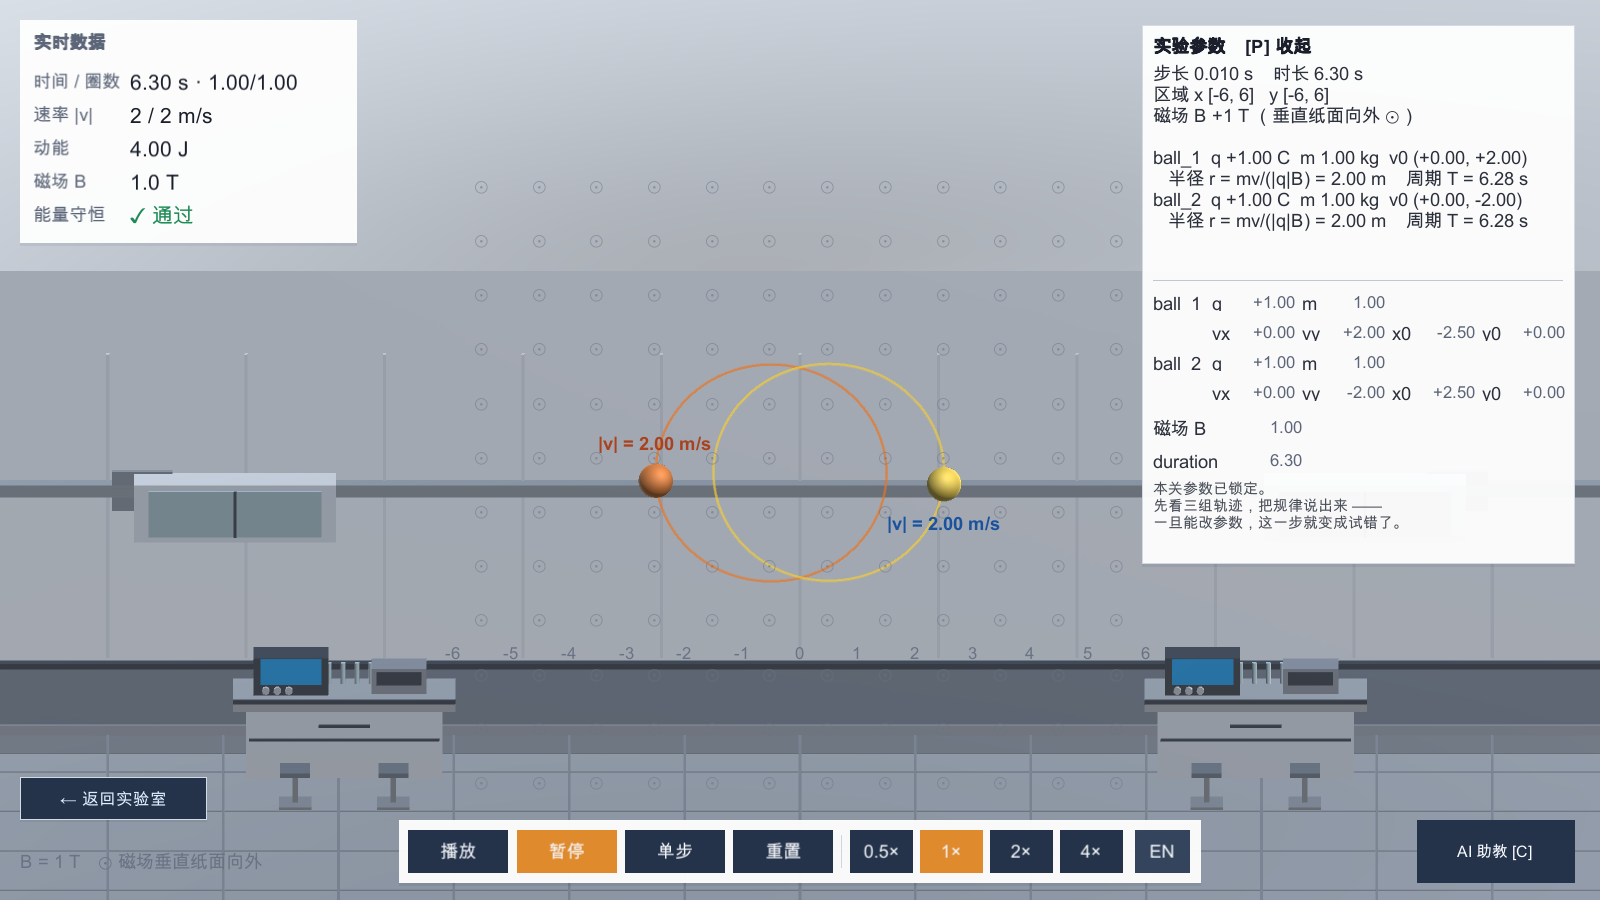
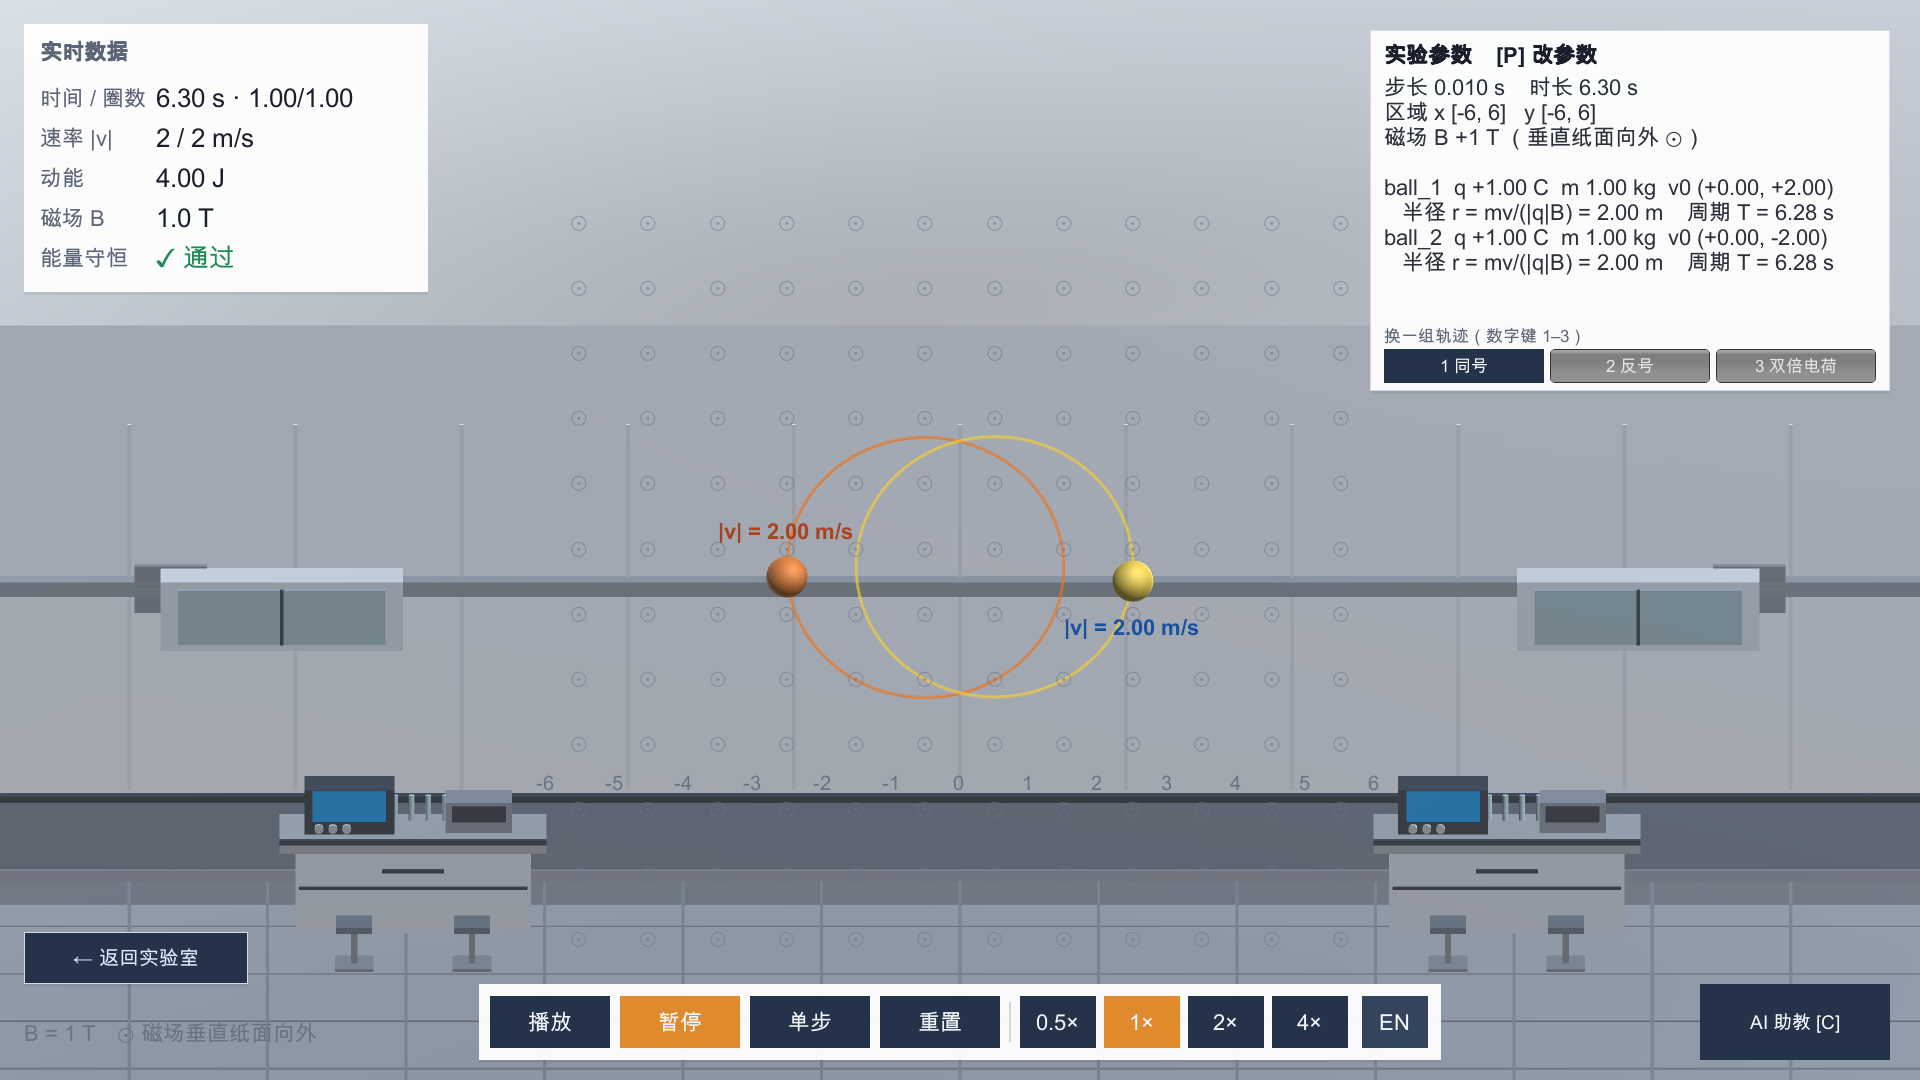
feat: 锁定关常驻「换一组轨迹」切换条 + 三站教学设计说明
- ParameterPanel：站一/站二锁定时常驻一条数据集切换条（不按 P 也在），
  当前那组深底白字，点一下就换；同步调整两关底部的锁定说明文案
- UILang：新增数据集短标签（同号 / 反号 / 双倍电荷 / 弱场 / 强场 …）
- ChargeLabHub：新增 -preset N，进站后直接打开第 N 组预设（截图验收用）
- README：新增「三个课时分别在验证什么」，逐案例列出实际 r/T/圈数与结论；
  操作表和命令行验收同步更新
- docs：重出 st1_locked / st2_speedonly / st2_speedonly_en，新增切换后的两张

diff --git a/Assets/Scripts/PhysicsPlayback/ParameterPanel.cs b/Assets/Scripts/PhysicsPlayback/ParameterPanel.cs
@@ -54,6 +54,9 @@ public sealed class ParameterPanel : MonoBehaviour
     GUIStyle _messageStyle;
     GUIStyle _lockedStyle;     // 冻结字段的灰字
     GUIStyle _lockTipStyle;    // 面板底部那句「本关能改什么」
+    GUIStyle _barButtonStyle;  // 数据集切换按钮
+    GUIStyle _barActiveStyle;  // 当前正在看的那一组
+    GUIStyle _barHeaderStyle;  // 切换条上方的小标题
     SimulationOutput _cached;
     string _cachedBody;
     float _cachedWidth = -1f;
@@ -184,8 +187,10 @@ public sealed class ParameterPanel : MonoBehaviour
         foreach (char c in _cachedBody) if (c == '\n') lineCount++;
         float readOnlyHeight = lineCount * lineHeight + 24f;
 
+        // 锁定关的切换条常驻，不跟 _editing 走 —— 不按 P 也要看得见「还能换三组」。
+        float barHeight = HasDatasetBar() ? DatasetBarHeight() : 0f;
         float editorHeight = _editing ? MeasureEditor(lineHeight) : 0f;
-        float height = readOnlyHeight + editorHeight;
+        float height = readOnlyHeight + barHeight + editorHeight;
 
         float x = virtualWidth - panelWidth - margin;
         float y = margin;
@@ -203,7 +208,8 @@ public sealed class ParameterPanel : MonoBehaviour
         GUI.Label(new Rect(x + 14f, y + 12f + lineHeight, panelWidth - 28f, readOnlyHeight - lineHeight - 20f),
                   _cachedBody, _textStyle);
 
-        if (_editing) DrawEditor(x, y + readOnlyHeight, lineHeight);
+        if (barHeight > 0f) DrawDatasetBar(new Rect(x + 14f, y + readOnlyHeight, panelWidth - 28f, barHeight));
+        if (_editing) DrawEditor(x, y + readOnlyHeight + barHeight, lineHeight);
     }
 
     void EnsureStyles()
@@ -240,6 +246,24 @@ public sealed class ParameterPanel : MonoBehaviour
         _lockTipStyle.wordWrap = true;
         _lockTipStyle.normal.textColor = new Color(UITheme.TextPrimary.r, UITheme.TextPrimary.g,
                                                    UITheme.TextPrimary.b, 0.78f);
+
+        // 切换按钮：字号再小一档，五个按钮挤在一行也要看得清。
+        _barButtonStyle = new GUIStyle(GUI.skin.button);
+        _barButtonStyle.fontSize = Mathf.RoundToInt(fontSize * 0.78f);
+        _barButtonStyle.wordWrap = false;
+        _barButtonStyle.padding = new RectOffset(2, 2, 0, 0);
+
+        // 当前那一组用深底白字：内置皮肤没有 "selected" 态可用，
+        // 借按下态底图在浅色卡片上几乎看不出来（试过，和普通按钮一个样）。
+        // 底图由 DrawDatasetBar 自己填，这里只管文字。
+        _barActiveStyle = new GUIStyle(_barButtonStyle);
+        _barActiveStyle.normal.background = null;
+        _barActiveStyle.normal.textColor = UITheme.TextOnDark;
+        _barActiveStyle.alignment = TextAnchor.MiddleCenter;
+
+        _barHeaderStyle = new GUIStyle(_textStyle);
+        _barHeaderStyle.fontSize = Mathf.RoundToInt(fontSize * 0.78f);
+        _barHeaderStyle.normal.textColor = UITheme.TextMuted;
     }
 
     float MeasureEditor(float lineHeight)
@@ -273,6 +297,73 @@ public sealed class ParameterPanel : MonoBehaviour
         UILang.T(Lock == LockMode.SpeedOnly ? "panel.lock.speed" : "panel.lock.all");
 
     float lineHeight_Px() => fontSize + 8f;
+
+    // ---------- 数据集切换条 ----------
+
+    const float BarButtonHeight = 34f;
+    const float BarGap = 6f;
+
+    // 只有「被锁住、且本站有多组预设」时才画。
+    // 站③ 的未知粒子也锁，但只有一份数据，画一条只有一个按钮的条反而像坏了。
+    bool HasDatasetBar()
+    {
+        return Lock != LockMode.None && !MaskSolution &&
+               binder != null && binder.datasetFiles != null && binder.datasetFiles.Length > 1;
+    }
+
+    float BarHeaderHeight() => fontSize * 0.78f + 8f;
+
+    float DatasetBarHeight() => BarHeaderHeight() + BarButtonHeight + 8f;
+
+    void DrawDatasetBar(Rect rect)
+    {
+        var files = binder.datasetFiles;
+        int count = files.Length;
+
+        GUI.Label(new Rect(rect.x, rect.y, rect.width, BarHeaderHeight()),
+                  UILang.F("panel.datasets", count), _barHeaderStyle);
+
+        float top = rect.y + BarHeaderHeight();
+        float width = (rect.width - BarGap * (count - 1)) / count;
+        string current = FileName(binder.jsonFileName);
+
+        for (int i = 0; i < count; i++)
+        {
+            var button = new Rect(rect.x + i * (width + BarGap), top, width, BarButtonHeight);
+            bool active = string.Equals(FileName(files[i]), current, System.StringComparison.OrdinalIgnoreCase);
+            string label = (i + 1) + " " + DatasetLabel(files[i]);
+
+            // 当前这一组画成深底白字：学生要一眼看出自己在看哪一组。
+            if (active)
+            {
+                Fill(button, UITheme.ButtonBg);
+                GUI.Label(button, label, _barActiveStyle);
+                continue;
+            }
+
+            if (GUI.Button(button, label, _barButtonStyle)) binder.LoadFile(files[i]);
+        }
+    }
+
+    static string FileName(string path)
+    {
+        if (string.IsNullOrEmpty(path)) return string.Empty;
+        int slash = path.LastIndexOfAny(new[] { '/', '\\' });
+        return slash >= 0 ? path.Substring(slash + 1) : path;
+    }
+
+    // 文件名 → 短标签（同号 / 反号 / 双倍电荷…）。没配标签就退回文件名本身，
+    // 免得新加数据集时界面上出现空白按钮。
+    static string DatasetLabel(string file)
+    {
+        string name = FileName(file);
+        int dot = name.LastIndexOf('.');
+        if (dot > 0) name = name.Substring(0, dot);
+
+        string key = "ds." + name;
+        string text = UILang.T(key);
+        return text == key ? name : text;
+    }
 
     void DrawEditor(float panelX, float top, float lineHeight)
     {

diff --git a/Assets/Scripts/UILang.cs b/Assets/Scripts/UILang.cs
@@ -66,10 +66,24 @@ public static class UILang
         // ---------- 参数锁定的说明（课时 1 / 课时 2 面板底部） ----------
         // 两关的差别不在功能，在「允许你动哪个量」——所以这句话必须写在面板里，
         // 学生一打开面板就该看到，而不是靠老师口头交代。
-        { "panel.lock.all",  new[] { "本关参数已锁定。\n先看三组轨迹，把规律说出来 —— 一旦能改参数，这一步就变成试错了。",
-                                     "Parameters are locked for this lesson.\nWatch the three cases and state the rule yourself." } },
-        { "panel.lock.speed",new[] { "只有速度可以改。\n其余量全部冻结 —— 一次只改一个，才说得清是谁在起作用。",
-                                     "Speed is the only editable quantity.\nEverything else is frozen, so one change means one cause." } },
+        { "panel.lock.all",  new[] { "本关参数已锁定 —— 能换轨迹，不能拧参数。\n三组只差电荷的符号和大小：先看，再把规律说出来。\n一旦能改参数，这一步就从观察变成试错了。",
+                                     "Parameters are locked — you switch cases, not sliders.\nThe three cases differ only in the sign and size of q.\nWatch first, state the rule after." } },
+        { "panel.lock.speed",new[] { "只有速度可以改（vx / vy 一起动）。\n电荷、质量、磁场、时长全部冻结 —— 一次只改一个，才说得清是谁在起作用。\n想比较磁场强弱或质量大小，用上面的按钮换预设。",
+                                     "Speed is the only editable quantity (vx / vy together).\nCharge, mass, field and duration are frozen, so one change means one cause.\nTo compare field or mass, switch presets above." } },
+
+        // ---------- 数据集切换条 ----------
+        // 锁定的两关里，学生唯一还能「动」的就是换哪一组预设。这条必须常驻屏幕：
+        // 只靠数字键而不给可见入口，整站看着像死界面。
+        { "panel.datasets",  new[] { "换一组轨迹（数字键 1–{0}）",
+                                     "Switch case  (keys 1–{0})" } },
+        { "ds.same_q",       new[] { "同号",     "Same sign" } },
+        { "ds.opposite_q",   new[] { "反号",     "Opposite" } },
+        { "ds.different_qm", new[] { "双倍电荷", "Double q" } },
+        { "ds.speed_diff",   new[] { "速度不同", "Speed differs" } },
+        { "ds.field_weak",   new[] { "弱场",     "Weak field" } },
+        { "ds.field_strong", new[] { "强场",     "Strong field" } },
+        { "ds.mass_diff",    new[] { "质量不同", "Mass differs" } },
+        { "ds.no_field",     new[] { "无磁场",   "No field" } },
         { "panel.lock.mystery", new[] { "未知粒子：电荷量与质量已遮住，参数不可改。\n从网格量出半径，再用 r = mv/(qB) 反推。",
                                      "Unknown particle: q and m are hidden and locked.\nMeasure the radius on the grid, then invert r = mv/(qB)." } },
 

diff --git a/Assets/Scripts/PhysicsPlayback/ChargeLabHub.cs b/Assets/Scripts/PhysicsPlayback/ChargeLabHub.cs
@@ -146,6 +146,7 @@ public sealed class ChargeLabHub : MonoBehaviour
     Vector2? _spawnOverride;
     float? _yawOverride;
     bool _forcePlate;                    // -plate：第四站退回旧的平行板靶场（保留小组原模块）
+    int _startDataset = 1;               // -preset N：进站后直接打开第 N 组预设
 
     readonly Dictionary<string, Material> _matCache = new Dictionary<string, Material>();
     readonly List<TextMesh> _texts = new List<TextMesh>();
@@ -250,7 +251,13 @@ public sealed class ChargeLabHub : MonoBehaviour
         {
             int want = 1;
             for (int i = 0; i < argv.Length - 1; i++)
+            {
                 if (argv[i] == "-enterstation") int.TryParse(argv[i + 1], out want);
+                // -preset N：进站后直接打开第 N 组预设。截图脚本用 ——
+                // 切换条上的按钮没法靠命令行点，靠它才能给「点第二组」出验收图。
+                // 不能叫 -dataset：那个名字已经被 AutoShot 占作「直接指定 json 路径」。
+                if (argv[i] == "-preset") int.TryParse(argv[i + 1], out _startDataset);
+            }
 
             var target = _stations.Count > 0 ? _stations[Mathf.Clamp(want, 1, _stations.Count) - 1] : null;
             if (target != null) StartCoroutine(DelayedEnter(roundTrip, target));
@@ -637,7 +644,7 @@ public sealed class ChargeLabHub : MonoBehaviour
             SceneBinder.SuppressAutoFrame = false;
             SceneBinder.InputLocked = false;
             ShowExperiment();
-            _binder.LoadFile(station.Datasets[0]);
+            _binder.LoadFile(station.Datasets[Mathf.Clamp(_startDataset - 1, 0, Mathf.Max(0, station.Datasets.Length - 1))]);
         }
 
         yield return new WaitForSeconds(0.18f);

diff --git a/README.md b/README.md
@@ -34,14 +34,14 @@
 
 | | 课时一（转向与半径） | 课时二（控制变量） |
 |---|---|---|
-| 能改什么 | **什么都不改**，六个量全冻结 | **只改速度**（vx / vy），其余冻结 |
+| 能改什么 | **参数全冻结**，只能换案例 | **只改速度**（vx / vy），其余冻结 |
 | 案例数 | 3 对 | 5 组 |
 | 要得出的结论 | 电荷的**符号**决定转向，**大小**决定半径 | **周期和速度无关** |
 | 认知层次 | 先看现象，自己归纳（pattern recognition） | 一次只改一个，才说得清因果（control of variables） |
 
-参数面板（`P`）底部会写明本关的规则，锁住的量用灰字显示原值 —— 看得见是多少，但改不动。
+参数面板（`P`）底部会写明本关的规则，锁住的量用灰字显示原值 —— 看得见是多少，但改不动。面板下方还有一条**常驻的切换条**（不按 `P` 也在）：当前看的是哪一组用深底白字标出来，点一下就换，不用记数字键。
 
-![课时一参数全锁](docs/st1_locked.png)
+![课时一参数全锁 + 切换条](docs/st1_locked.png)
 ![课时二只开速度](docs/st2_speedonly.png)
 
 **为什么课时一一个都不让改**：一旦能调参数，「先观察、后归纳」就退化成「乱试碰运气」；而且学生会带着调参的习惯进课时二，控制变量那一课就没有训练价值了。
@@ -63,6 +63,62 @@
 `speed_diff` 里两颗球走的弧长是 6.28 m 和 15.71 m，差 2.5 倍，却在同一时刻闭合 —— 这比任何口头解释都有说服力。
 
 **别把播放时长当成周期**：这份数据时长 6.30 s、周期 6.28 s，两个数挨得太近确实容易混。切到强磁场那份（`field_strong`）就一目了然：时长 6.30 s、周期 3.14 s，明显不是同一个数。
+
+## 三个课时分别在验证什么
+
+三站是一条链：**站① 看懂（符号与大小）→ 站② 拆开（谁管节拍、谁管大小）→ 站③ 反推（从量得到的半径倒算看不到的 q/m）**。下面按站列出各案例的实际数值和它真正要立住的结论，数字都直接取自 `Assets/StreamingAssets/SimData/`。
+
+### 课时一 · 把 q 拆成「符号」和「大小」
+
+固定 B = 1.0 T、m = 1.0、|v| = 2.0 m/s，三组预设**只差电荷**：
+
+| 案例 | 变了什么 | ball_1 | ball_2 | 证明什么 |
+|---|---|---|---|---|
+| `same_q` | 只有起点和速度方向相反 | q=+1，r=2.00，T=6.28 | q=+1，r=2.00，T=6.28 | 两个 r、T 一致 → **轨迹形状与起点无关**，只由 q、m、v、B 决定 |
+| `opposite_q` | 只有 q 的符号 | q=+1，r=2.00，T=6.28 | q=−1，r=2.00，T=6.28 | 半径、周期一模一样，只有绕向翻 → **符号是方向量，不是大小量** |
+| `different_qm` | 只有 \|q\| 的大小 | q=+1，r=2.00，1.00 圈 | q=+2，r=1.00，2.01 圈 | 电荷翻倍 → 半径和周期一起减半 → **\|q\| 越大转得越急**（与「电荷大更笨重」的直觉相反） |
+
+![换到反号那一组](docs/st1_switch_opposite.png)
+
+### 课时二 · 把半径和周期拆开
+
+| 案例 | 谁变了 | 关键数字 | 证明什么 |
+|---|---|---|---|
+| `speed_diff` | 两球 v = 1.0 / 2.5 | r = 1.00 / 2.50，T 都是 6.28，**圈数 1.00 / 1.00** | **速度只放大半径，节拍一点不动** —— 全课最反直觉的一帧 |
+| `field_weak` | B = 0.5（半场） | r = 4.00，T = 12.57，1.00 圈 | 场减半 → 半径翻倍、周期翻倍（r ∝ 1/B） |
+| `field_strong` | B = 2.0（双倍场） | r = 1.00，T = 3.14，**6.3 s 转 2.01 圈** | 场翻倍 → 半径减半、周期减半 |
+| `mass_diff` | m = 1 / 2 | r = 2.00 / 4.00，T = 6.28 / 12.57，**圈数 2.01 / 1.00** | 质量改的是节拍 → 两颗**不同步** |
+| `no_field` | B = 0 | 匀速直线 | 没有场就没有力（对照组） |
+
+`speed_diff` 和 `mass_diff` 是这一课最锋利的一对：同样都是「让一颗球跑得更猛」，改 v 两颗仍齐步走，改 m 同步立刻散掉。
+
+### 课时三 · 从量得到的推看不到的
+
+学生看到的只有半径 4.00 m（数网格）、速率 2 m/s、场强 1 T、12.6 秒转一圈；q 和 m 显示为 `?`。把 r = mv/(qB) 变形：
+
+```
+q/m = v / (B·r) = 2 / (1 × 4) = 0.5
+```
+
+| 选项 | q、m | q/m | 怎么排除 |
+|---|---|---|---|
+| A | +1、1 | 1.0 | 半径会算成 2 m，只有实测的一半 |
+| B | +2、1 | 2.0 | 半径会算成 1 m |
+| **C ✓** | +1、2 | **0.5** | 与实测 4 m 吻合，转向也对 |
+| D | −1、1 | −1.0 | 先看转向就该排除 —— 负电荷绕向相反 |
+
+真正的教学点在答对后那句提示：**轨迹只能定出 \|q\|/m 的比值，分不出 q 和 m 各是多少。**（0.5 可能是 +1/2，也可能是 +2/4，屏幕上看不出差别。）这就是荷质比概念的入口。
+
+### 三站对照
+
+| | 课时一 | 课时二 | 课时三 |
+|---|---|---|---|
+| 学生角色 | 看 | 动手 | 算 |
+| 动的量 | 无（q 三档预设） | 只有 v | 无（参数遮蔽） |
+| 屏幕上比的 | 半径 + 圈数 | 半径 + 圈数 | 半径（量） |
+| 结论 | 符号定方向、\|q\| 定大小 | 半径 ≠ 周期，v 只动前者 | 只能定 \|q\|/m |
+| 一句话 | 变号、变大小 | 拆开两个输出 | 倒过来用 |
+
 
 ## 第四课时：平行板偏转靶场
 
@@ -127,6 +183,7 @@ Unity.exe -batchmode -quit -projectPath <仓库路径> \
 | 大厅 | `W A S D` / 右键拖动 | 走动 / 环视 |
 | 大厅 | 左键点舱体、`1` `2` `3` `4` | 进入对应课时 / 靶场 |
 | 实验里 | `P` | 参数面板（课时一全锁、课时二只开速度、课时三禁用） |
+| 课时一 / 二 | `1`…`5` 或点面板下方切换条 | 换一组预设（当前那组深底白字） |
 | 实验里 | `空格` / 按钮 | 播放 / 暂停；靶场里是“发射” |
 | 实验里 | `C` | AI 助教 |
 | 实验里 | `F5` | 重读当前 JSON |
@@ -151,9 +208,13 @@ ChargeMotionLab.exe -autoshot D:/hit.png -starthub -enterstation 4 -platefire \
   -plateparams 40,1,1,4.8 -shotdelay 8                                   # 调好参数自动打一次
 ChargeMotionLab.exe -autoshot D:/lock.png -starthub -enterstation 1 -openparams \
   -shotdelay 11                                                          # 强制展开参数面板（看锁定状态）
+ChargeMotionLab.exe -autoshot D:/p2.png -starthub -enterlab -enterstation 1 -preset 2 \
+  -shotdelay 11                                                          # 进课时一后直接打开第 2 组预设
 ```
 
 ⚠ `-autoshot` 会让大厅默认处于关闭状态（保持老脚本的行为）。**要进舱、要看参数锁定，必须显式加 `-starthub`** —— 只写 `-enterstation 2` 是不会进站的，画面会停在单一实验房间里，看着像成功其实没进站。
+
+`-preset N` 是「进站后打开第 N 组预设」，和 `-dataset <路径>`（AutoShot 直接指定 json 文件）不是一回事，名字故意分开。
 
 路径请给**绝对路径**（相对路径会被 `ScreenCapture` 写到 persistentDataPath）。
 
